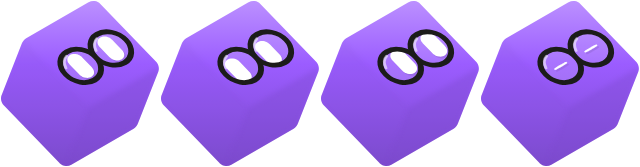
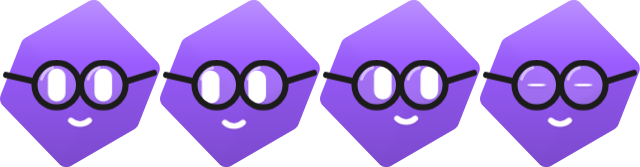
The terminal UI's mascot is the README's violet cube, smiling behind round glasses
The entering page's sprite sheet (`tui/mascot.png`) is rendered again from the new
`docs/assets/mascot.svg`, and the masthead's 14x14 mark (`widgets.MASCOT`) is drawn
again with its glasses level on the front face, their arms out to its sides, and a
mouth under them. The docstrings and docs/tui.md describe the new cube.

diff --git a/src/intern/tui/widgets.py b/src/intern/tui/widgets.py
@@ -118,29 +118,30 @@ MASCOT = (
     ".......##.....",
     ".....#####....",
     "...########...",
-    "..#######KK#..",
-    ".####KK#KWWK#.",
-    ".###KWWKKWWK##",
-    ".###KWWK#KK###",
-    "#####KK#######",
+    "..##########..",
     ".############.",
+    ".###KK##KK####",
+    ".#KKWWKKWWKKK#",
+    "###KWWKKWWK###",
+    ".###KK##KK###.",
     ".############.",
-    "..#########...",
+    "..####MM###...",
     "..#########...",
     "....####......",
     "....####......",
 )
 """The mascot, a character per pixel (`#` its body, `theme.MASCOT_BODY`; the rest `theme.MASCOT_COLOURS`; `.` the
 page): the README's cube in outline, tilted as in the Nace logo, lighter at the top as that one is, with no edge
-between its faces (under the glasses one reads as a mouth); round glasses with the right lens a pixel higher, as the
-top face lies in perspective. Below its middle it narrows a cell at a time, two rows of pixels as wide as each other:
-a pixel over the open page is a half block whose edge macOS Terminal draws as a hairline. Fourteen pixels
-tall so it stands seven rows, the masthead's height. A pixel is a cell wide and half a cell tall, so it is square on
-screen. The glasses are drawn by hand: at this size the README's scaled down are a smudge."""
+between its faces; on its front face round glasses, level, their arms out to its sides, and under them a mouth. Below
+its middle it narrows a cell at a time, two rows of pixels as wide as each other: a pixel over the open page is a half
+block whose edge macOS Terminal draws as a hairline. Fourteen pixels tall so it stands seven rows, the masthead's
+height. A pixel is a cell wide and half a cell tall, so it is square on screen. The glasses and the mouth are drawn by
+hand: at this size the README's scaled down are a smudge."""
 EYES = ("rest", "left", "right", "shut")
 """The mascot's poses: its eyes at rest, glancing left, glancing right and shut."""
 LOOK = ("WW", "W9", "9W", "99")
-"""`MASCOT`'s eye in each pose, a lens being two pixels across: its white, or the lens where it has left."""
+"""`MASCOT`'s eyes in each pose, a lens being two pixels across and two down: their white, or the lens where they have
+left. The mouth is `M`, so it stays where it is."""
 ART = (
     "██ ███  ██ ████████ ███████ ██████  ███  ██",
     "██ ████ ██    ██    ██      ██   ██ ████ ██",

diff --git a/src/intern/tui/welcome.py b/src/intern/tui/welcome.py
@@ -138,9 +138,10 @@ HINTS = (
     ("/dark", "look"),
 )
 SPRITES = Path(__file__).with_name("mascot.png")
-"""The mascot's poses, side by side, one for each of `EYES`: `docs/assets/mascot.svg` without the shadow under it,
-as a browser draws it 160 pixels wide with its eyes at rest, glancing left, glancing right and shut. `poses` scales
-them to the cells."""
+"""The mascot's poses, side by side, one for each of `EYES`: `docs/assets/mascot.svg` without the shadow under it or
+its breath, cut to the cube and drawn 160 pixels wide by a browser stopped at each pose (0.5 s into its loop at rest,
+2.1 s glancing left, 4.6 s glancing right, 6.88 s shut). Its eyes glance behind still glasses, and its smile with
+them. `poses` scales them to the cells."""
 SPRITE_COLUMNS, SPRITE_ROWS = 32, 16
 """The mascot in cells, two pixels to a cell down: as wide in pixels as it is tall."""
 BIG_COLUMNS, BIG_ROWS = 40, 20

diff --git a/src/intern/tui/theme.py b/src/intern/tui/theme.py
@@ -60,9 +60,10 @@ MASCOT_COLOURS = {
     "3": "#6538b4",
     "K": "#1c1c1a",
     "W": "#ffffff",
+    "M": "#ffffff",
 }
 """The mascot's colours: its violets from the lightest, `9`, down (the wordmark's rows, and `9` a lens of the
-mark's glasses with the eye gone from it); the glasses' frames, `K`; the eyes, `W`."""
+mark's glasses with the eye gone from it); the glasses' frames, `K`; the eyes, `W`; the mouth, `M`."""
 MASCOT_BODY = (
     "#b88bff",
     "#b281ff",

diff --git a/docs/tui.md b/docs/tui.md
@@ -86,10 +86,10 @@ README's paragraph; under them the working directory and the session's journal, 
 knowing first (while the session is opening, or when it could not open, that line says so instead). All of it is
 centred, and stands a third of the way down a tall terminal.
 
-The mascot is the README's cube (`tui/mascot.png`: `docs/assets/mascot.svg` as a browser draws it, in each of its
-poses), scaled to the cells, 40 by 20 on a wide page with the room and 32 by 16 otherwise, and its eyes move as that
-one's do: every eight seconds they glance left, then right, and blink twice; `TEXTUAL_ANIMATIONS=none` holds them
-still. A cell is two pixels of it, one over the other, each the mean of what it covers of the drawing, so the cube's
+The mascot is the README's violet cube, smiling on its front face behind round glasses (`tui/mascot.png`:
+`docs/assets/mascot.svg` as a browser draws it, in each of its poses), scaled to the cells, 40 by 20 on a wide page
+with the room and 32 by 16 otherwise, and its eyes move as that one's do: every eight seconds they glance left, then
+right, behind glasses that stay still, and blink twice; `TEXTUAL_ANIMATIONS=none` holds them still. A cell is two pixels of it, one over the other, each the mean of what it covers of the drawing, so the cube's
 edge is a blend with the page and not a step. The upper pixel is the cell's background and the lower a lower half
 block on it, never an upper half block: a terminal draws a cell's background exactly and a glyph where its font puts
 it, and macOS Terminal starts an upper half block short of the cell's top, which leaves a gap, while a lower one
@@ -120,13 +120,13 @@ straight to the conversation; `/clear` comes back to the page.
 ## Layout
 
 ```
-           ▄▄██▄
-      ▄▄██████████▄        INTERN  v0.25.0
- ▄▄▄██▀▀▀█████▀▀▀████▄
-  ███  ██ ███  ██ ██▀      System 2  anthropic/claude-haiku-5-5    thinking high   ▰▰▰▱▱    price unknown   ⠸ 11% of 131.1k
-  ▀███▄▄▄█████▄▄▄███       System 1  nace-ai/drex-max             decisions API             $0.0312
-    ▀██████████████▀
-      ▀▀████▀▀▀
+      ▄▄██▄
+   ▄████████▄              INTERN  v0.25.0
+  ███▀▀██▀▀███▄
+ ▄█▄        ▄▄█            System 2  anthropic/claude-haiku-5-5    thinking high   ▰▰▰▱▱    price unknown   ⠸ 11% of 131.1k
+  ███▄▄██▄▄███             System 1  nace-ai/drex-max             decisions API             $0.0312
+   ████▄▄███
+     ████
 ╭─▐System 2▌ thinking slow ─────────────────────────╮╭─▐System 1▌ thinking fast ──────────────────────╮
 │ › Find why tests/test_parser.py fails and fix it  ││ 131 asks · 0.4s each · 12 cached               │
 │ ▸ Thought for 3.4s                                ││ ━ watch 22   ✓ guard 8   ⌕ search 97           │
@@ -177,8 +177,8 @@ near-black text, a warm gray for what is secondary; the mascot's violet for what
 panels' tabs, the bar beside the user's messages and the goal, the prompt's border while it has the focus, the
 cursors); green only for what went right, amber for what needs a look, red for what went wrong. The mark is the
 mascot, the violet cube in round glasses at the top of the README, in outline, lighter at the top as that one is and with
-no edge between its faces (under the glasses one reads as a mouth), in its own
-colours in both looks, fourteen cells by seven,
+no edge between its faces, its glasses level across its front face with their arms out to its sides and a mouth under
+them, in its own colours in both looks, fourteen cells by seven,
 in the masthead: drawn by hand, a pixel the upper or lower half of a cell, so it is square on screen and
 each cell can take two of the mascot's colours (`widgets.MASCOT`; the README's cube scaled to this size is a smudge), its eyes glancing and blinking as the
 entering page's do, and nothing on the page says it twice: the
